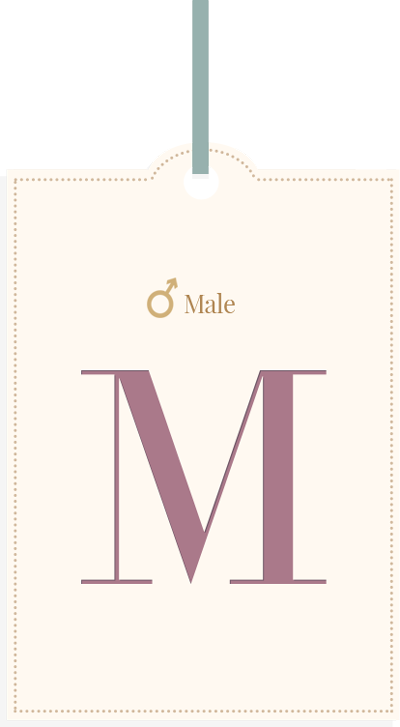
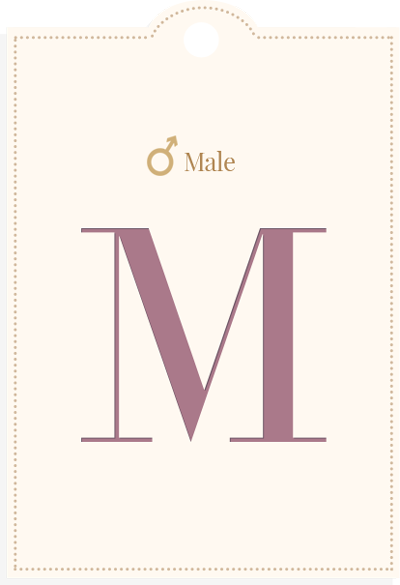
Style index page and q1 on mobile devices

diff --git a/webapp/public/css/project0.css b/webapp/public/css/project0.css
@@ -80,6 +80,7 @@ html, body {
 .hide { display: none; }
 .m-show { display: none; }
 .m-show_inline { display: none; }
+.animated { opacity: 1 !important; }
 
 #noise {
 	position: fixed;
@@ -357,15 +358,23 @@ html, body {
 #section1 { background-color: #b3d3d0; color: #644b54; }
 #section1 .aBox { width: 55%; }
 #section1 .genderTag {
+	display: inline-block;
+	position: relative;
+	margin: 20px 10px;
 	width: 40%;
 	max-width: 400px;
-	display: inline-block;
-	margin: 20px 10px;
-	cursor: pointer;
 	opacity: 0;
 }
-#section1 .genderTag.animated { opacity: 1; }
-
+#section1 #genderTagM { top: 16%; }
+#section1 #genderTagF { top: 22%; }
+#section1 .genderTag .tag {
+	cursor: pointer;
+}
+#section1 .genderTag .line {
+	position: absolute;
+	transform: translate(786%, -97%);
+	width: 6%;
+}
 
 #section2 { background-color: #f8c8b8; color: #5e4d47; }
 
@@ -392,7 +401,6 @@ html, body {
 	height: 300px;
 	opacity: 0;
 }
-#section3 #marriageButton.animated { opacity: 1; }
 #section3 .marriageYes {
 	position: absolute;
 	top: 0;
@@ -422,20 +430,69 @@ html, body {
 	.m-show_inline { display: inline; }
 	.m-hide { display: none !important; }
 	
+	#logo {
+		left: 8%;
+	}
+	
 	#index .coverLayer {
 		width: 80%;
-		height: 88%;
+		height: 60%;
 		padding: 12px;
 	}
 	#index .coverLayer .title {	top: 18%; }
+	#index .coverLayer .desc {
+		top: 60%;
+		line-height: 32px;
+	}
 	#index .coverLayer .start {	top: 78%; }
 	#index #browserRecommend { font-size: 10px; }
+	
+	.qBox {
+		bottom: auto;
+		top: 12%;
+		left: 8%;
+		margin: 0;
+		height: 150px;
+		z-index: 555;
+	}
+	.qBox > div { display: inline-block; }
+	.qBox .qNum {
+		position: relative;
+		top: 0;
+		left: 0;
+		font-size: 30px;
+		margin: 0 20px;
+		vertical-align: top;
+	}
+	.qBox .qNum > div { line-height: 25px; }
+	.qBox .qNum > div:first-of-type { font-size: 40px; }
+	.qBox .question {
+		line-height: 35px;
+	}
+	.qBox .question .qEn { font-size: 36px; }
+	.qBox .question .qKr {
+		font-size: 22px;
+		letter-spacing: -2px;
+	}
+	
+	.aBox {
+		padding: 0 8%;
+	}
+
+	#section1 .aBox { width: 100%; }
+	#section1 #genderTagM { top: 34%; }
+	#section1 #genderTagF { top: 39%; }
 }
 
 @media all and (max-width : 767px) {	
 	/** frame **/
 	#frame { border: 10px solid; }
 
+	#logo {
+		transform: scale(0.6);
+		transform-origin: top left;
+	}
+	
 	#index #spotlight1 {
 		font-size: 15em;
 		animation-name: spotlighting1_mobile;
@@ -451,7 +508,7 @@ html, body {
 		font-size: 60px;
 	}
 	#index .coverLayer .desc {
-		top: 48%;
+		top: 50%;
 		font-size: 15px;
 		line-height: 24px;
 	}

diff --git a/webapp/public/js/project0.js b/webapp/public/js/project0.js
@@ -289,7 +289,7 @@ var SectionInit = {
 		}
 	},
 	section1: function() {
-		$("#section1").find(".aBox").on("touchClick", "img", function(event) {
+		$("#section1").find(".aBox").on("touchClick", ".tag", function(event) {
 			Answer.answerObj.a1 = $(event.currentTarget).data("value");
 		});
 	},
